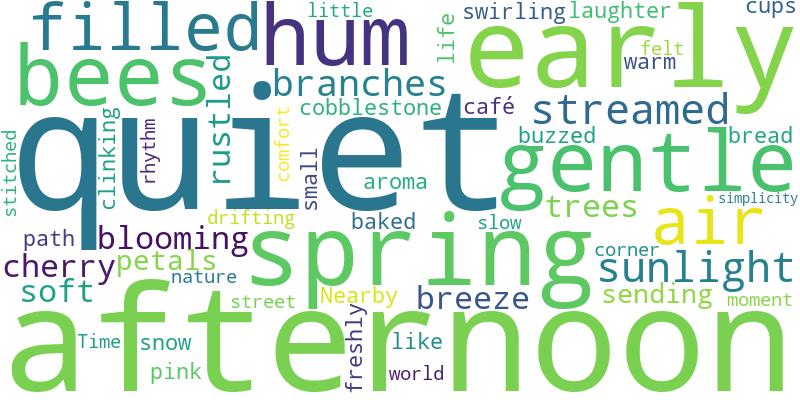
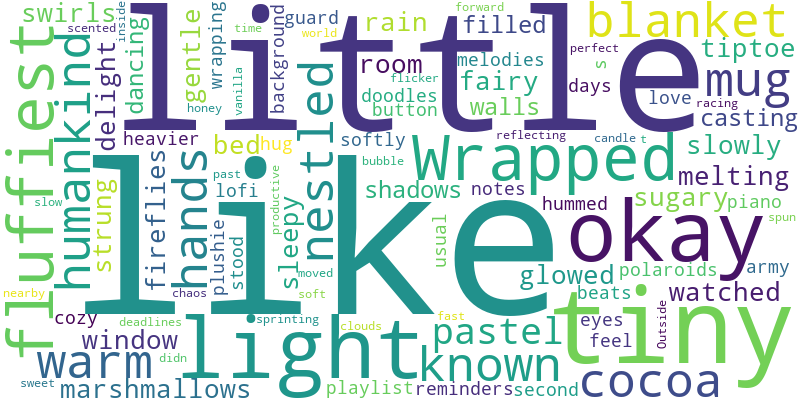
adding wordcloud and configuration

diff --git a/templates/summary.html b/templates/summary.html
@@ -25,6 +25,28 @@
                 </div>
             </div>
 
+            <!-- Word Cloud Section -->
+            <h2 class="section-title">Word Cloud Visualization</h2>
+            <div class="row">
+                <div class="col-md-12">
+                    <div class="wordcloud-container">
+                        <img src="{{ wordcloud_path }}" alt="Word Cloud" class="wordcloud-img">
+                    </div>
+                </div>
+            </div>
+            
+            <!-- Keywords Section -->
+            <h2 class="section-title">Top Keywords</h2>
+            <div class="row mb-4">
+                <div class="col-md-12">
+                    <div class="p-3 bg-light rounded">
+                        {% for keyword, count in keywords %}
+                            <span class="badge bg-primary keyword-badge">{{ keyword }} ({{ count }})</span>
+                        {% endfor %}
+                    </div>
+                </div>
+            </div>
+
             <!-- Original Text -->
             <div class="col-md-6 mb-3">
               <label for="rawtext" class="form-label"><strong>Original Text</strong></label>

diff --git a/static/styles.css b/static/styles.css
@@ -69,7 +69,7 @@
 }
 .wordcloud-img {
     width: 100%;
-    height: auto;
+    height: 50%;
     display: block;
 }
 .section-title {

diff --git a/text_summary.py b/text_summary.py
@@ -59,32 +59,20 @@ def extract_keywords(text, max_keywords=10):
     
     return keywords
 
-text = " Matt told her to reach for the stars, but Veronica thought it was the most ridiculous advice she'd ever received. Sure, it had been well-meaning when he said it, but she" \
-" didn't understand why anyone would want to suggest something that would literally kill you if you actually managed to achieve it. They decided to find the end of the rainbow. " \
-"While they hoped they would find a pot of gold, neither of them truly believed that the mythical pot would actually be there. Nor did they believe they could actually find the end "\
-"of the rainbow. Still, it seemed like a fun activity for the day, and pictures of them chasing rainbows would look great on their Instagram accounts. They would have never believed "\
-"they would actually find the end of a rainbow, and when they did, what they actually found there. Sarah watched the whirlpool mesmerized. She couldn't take her eyes off the water "\
-"swirling around and around. She stuck in small twigs and leaves to watch the whirlpool catch them and then suck them down. It bothered her more than a little bit that this could "\
-"also be used as a metaphor for her life. It was difficult to explain to them how the diagnosis of certain death had actually given him life. While everyone around him was in "\
-"tears and upset, he actually felt more at ease. The doctor said it would be less than a year. That gave him a year to live, something he'd failed to do with his daily drudgery "\
-"of a routine that had passed as life until then. They had always called it the green river. It made sense. The river was green. The river likely had a different official name, "\
-"but to everyone in town, it was and had always been the green river. So it was with great surprise that on this day the green river was a fluorescent pink."
-
-
 def summarizer(rawdocs, summary_ratio=0.3):
+    # Validate summary ratio
     summary_ratio = max(0.1, min(summary_ratio, 0.7))  # Limit between 10% and 70%
     
     # Check minimum word count
     word_count = len(rawdocs.split())
     if word_count < 20:  # Adjust this threshold as needed
-        return "", rawdocs, word_count, 0
+        return "", rawdocs, word_count, 0, [], ""
 
-    stopwords=list(STOP_WORDS)
-    # print(stopwords)
+    stopwords = list(STOP_WORDS)
     nlp = spacy.load('en_core_web_sm')
-    doc=nlp(rawdocs)
-    # print(doc)
-    tokens= [token.text for token in doc]
+    doc = nlp(rawdocs)
+    
+    tokens = [token.text for token in doc]
     word_freq = {}
     for word in doc:
         if word.text.lower() not in stopwords and word.text.lower() not in punctuation:
@@ -93,19 +81,14 @@ def summarizer(rawdocs, summary_ratio=0.3):
             else:
                 word_freq[word.text] += 1
 
-    # print(word_freq)
-
-    max_freq=max(word_freq.values())
-    # print(max_freq)
+    max_freq = max(word_freq.values()) if word_freq else 1
 
     for word in word_freq:
-        word_freq[word]/=max_freq
-    # print(word_freq)
+        word_freq[word] /= max_freq
 
-    sent_tokens= [sent for sent in doc.sents]
-    # print(sent_tokens)
+    sent_tokens = [sent for sent in doc.sents]
 
-    #sentence frquency 
+    # sentence frequency 
     sent_score = {}
     for sent in sent_tokens:
         for word in sent:
@@ -115,27 +98,19 @@ def summarizer(rawdocs, summary_ratio=0.3):
                 else:
                     sent_score[sent] += word_freq[word.text]
 
-    # print(sent_score)
-
     # Dynamic selection length based on ratio
     select_length = max(1, int(len(sent_tokens) * summary_ratio))
 
-    # print(select_length)
-
-    #selected select_length amount of sentences from sent_score
-    summary = nlargest(select_length , sent_score, key=sent_score.get)
-    # print(summary)
+    # select sentences from sent_score
+    summary = nlargest(select_length, sent_score, key=sent_score.get)
 
     final_summary = [word.text for word in summary]
-    summary = " ".join(final_summary)
-    # print(summary)
+    summary_text = " ".join(final_summary)
 
-    original_len = len(rawdocs.split(" "))
-    summary_len = len(summary.split(" ")) 
-
-    # print(f"{summary}, {rawdocs}, {orginal_len}, {summary_len}")
-    #print(summary)
+    original_len = len(rawdocs.split())
+    summary_len = len(summary_text.split())
     
+    # Generate word cloud
     wordcloud_path = generate_wordcloud(rawdocs)
     
     # Extract top keywords
@@ -143,7 +118,8 @@ def summarizer(rawdocs, summary_ratio=0.3):
     
     return summary_text, rawdocs, original_len, summary_len, keywords, wordcloud_path
 
-
 def __main__():
-    summarizer(text)
-    # print(f"{summary}, ")
+    # Example usage with default and custom ratios
+    text = "Your sample text here..."
+    default_summary = summarizer(text)  # Uses default 30% ratio
+    custom_summary = summarizer(text, summary_ratio=0.5)  # Uses 50% ratio

diff --git a/app.py b/app.py
@@ -4,6 +4,8 @@ import os
 
 app = Flask(__name__)
 # app.run(host='0.0.0.0', port=5000)
+
+# Ensure static/images directory exists
 if not os.path.exists('static/images'):
     os.makedirs('static/images')
 
@@ -14,8 +16,7 @@ def index():
 @app.route('/analyse', methods=['GET', 'POST'])
 def analyse():
     if request.method == 'POST':
-        rawtext=request.form['rawtext']
-
+        rawtext = request.form['rawtext']
         # Get summary ratio from form, default to 0.3 if not provided
         try:
             summary_ratio = float(request.form.get('summary_ratio', 0.3))
@@ -33,9 +34,16 @@ def analyse():
         
         if word_count < 20:  # Adjust this threshold as needed
             return render_template('index.html', error="No Text Found")
-
-        summary, orgtext, len_orgtext, len_sum = summarizer(rawtext, summary_ratio)
-    return render_template('summary.html', summary=summary, orgtext=orgtext, len_orgtext=len_orgtext, len_sum=len_sum, summary_ratio=summary_ratio)
+        
+        summary, orgtext, len_orgtext, len_sum, keywords, wordcloud_path = summarizer(rawtext, summary_ratio)
+    return render_template('summary.html', 
+                           summary=summary, 
+                           orgtext=orgtext, 
+                           len_orgtext=len_orgtext, 
+                           len_sum=len_sum,
+                           summary_ratio=summary_ratio,
+                           keywords=keywords,
+                           wordcloud_path=wordcloud_path)
 
 if __name__ == '__main__':
     app.run(debug=True, port=5000)
